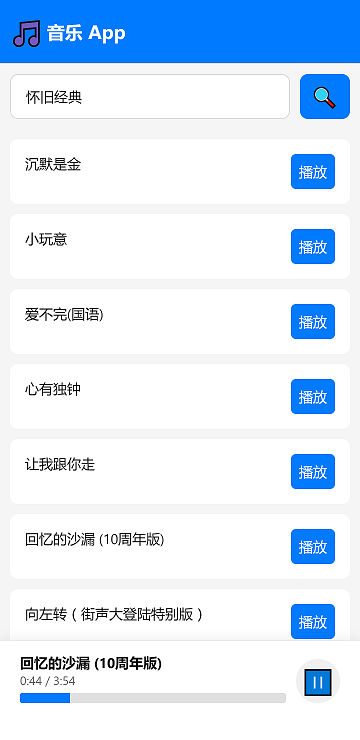
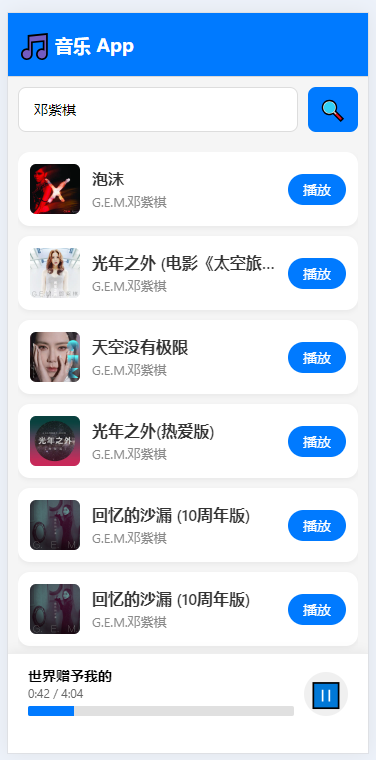
xx

diff --git a/app/music.tsx b/app/music.tsx
@@ -2,9 +2,14 @@ import React, { useEffect, useRef, useState } from 'react';
 import {
   ActivityIndicator,
   FlatList,
+  Image,
   LayoutChangeEvent,
   Pressable,
-  StyleSheet, Text, TextInput, TouchableOpacity, View
+  StyleSheet,
+  Text,
+  TextInput,
+  TouchableOpacity,
+  View,
 } from 'react-native';
 // 导入最新的 expo-audio
 import { useAudioPlayer, useAudioPlayerStatus } from 'expo-audio';
@@ -21,14 +26,11 @@ const MusicApp: React.FC = () => {
   const keyword = useRef<string>('王菲');
 
 
-  // 1. 初始化播放器实例
   const player = useAudioPlayer();
-  // 2. 监听播放器状态（包含时长、进度、是否播放中）
   const status = useAudioPlayerStatus(player);
 
   const handlePlay = async (song: Song) => {
     setCurrentSong(song);
-    // 替换新音源并播放
     player.replace(song.url);
     await player.play();
   };
@@ -111,10 +113,8 @@ const MusicApp: React.FC = () => {
           disabled={loading} // 加载中禁用点击
         >
           {loading ? (
-            // 这里可以用 ActivityIndicator（RN内置转圈组件）
             <ActivityIndicator color="#fff" size="small" />
           ) : (
-            // 这里放搜索图标，如果没有图标库可以用 emoji 代替 🔍
             <Text style={styles.searchButtonText}>🔍</Text>
           )}
         </TouchableOpacity>
@@ -122,15 +122,28 @@ const MusicApp: React.FC = () => {
 
       <FlatList
         data={songs ? songs.filter(s => s.title) : []}
-        keyExtractor={(item, index) => `song-${index}`}
+        keyExtractor={(_, index) => `song-${index}`}
         contentContainerStyle={{ paddingBottom: 100 }}
         renderItem={({ item }) => (
           <View style={styles.listItem}>
-            <Text>{item.title}</Text>
+            <Image
+              source={item.cover ? { uri: item.cover } : require('../assets/images/react-logo.png')}
+              style={styles.albumCover}
+            />
+
+            <View style={styles.textContainer}>
+              <Text style={styles.songTitle} numberOfLines={1}>
+                {item.title}
+              </Text>
+              <Text style={styles.singerName} numberOfLines={1}>
+                {item.singer || '未知歌手'}
+              </Text>
+            </View>
+
             <TouchableOpacity style={styles.playButton} onPress={() => handlePlay(item)}>
               <Text style={{ color: '#fff' }}>播放</Text>
             </TouchableOpacity>
-          </View>
+            </View>
         )}
       />
 
@@ -140,12 +153,10 @@ const MusicApp: React.FC = () => {
           <View style={{ flex: 1 }}>
             <Text style={{ fontWeight: 'bold' }}>{currentSong?.title}</Text>
 
-            {/* 使用预定义的字符串变量 */}
             <Text style={{ fontSize: 12, color: '#666' }}>
               {currentTimeStr} / {durationStr}
             </Text>
 
-            {/* 进度条交互区域 */}
             <Pressable
               // 如果时长还没获取到，就不允许点击跳转
               disabled={!status.duration || isNaN(status.duration)}
@@ -202,8 +213,48 @@ const styles = StyleSheet.create({
   searchButtonText: {
     fontSize: 20, // 放大图标显示
   },
-  listItem: { flexDirection: 'row', justifyContent: 'space-between', padding: 15, backgroundColor: '#fff', marginBottom: 10, borderRadius: 8 },
-  playButton: { backgroundColor: '#007AFF', padding: 8, borderRadius: 5 },
+
+  listItem: {
+    flexDirection: 'row', // 横向排列
+    alignItems: 'center', // 垂直居中
+    backgroundColor: '#fff',
+    padding: 12,
+    marginBottom: 10,
+    borderRadius: 12,
+    // 阴影
+    boxShadow: '0px 2px 5px rgba(0,0,0,0.05)',
+    elevation: 2,
+  },
+  albumCover: {
+    width: 50,
+    height: 50,
+    borderRadius: 6,
+    marginRight: 12,
+    backgroundColor: '#eee', // 图片加载前的占位色
+  },
+  textContainer: {
+    flex: 1, // 关键：占据中间所有空间
+    justifyContent: 'center',
+  },
+  songTitle: {
+    fontSize: 16,
+    fontWeight: '600',
+    color: '#333',
+    marginBottom: 4,
+  },
+  singerName: {
+    fontSize: 13,
+    color: '#888', // 比标题颜色浅
+  },
+  playButton: {
+    backgroundColor: '#007AFF',
+    paddingVertical: 6,
+    paddingHorizontal: 15,
+    borderRadius: 20, // 圆角矩形按钮
+    marginLeft: 10,
+  },
+
+
   bottomBar: {
     position: 'absolute',
     bottom: 0,

diff --git a/app/search.tsx b/app/search.tsx
@@ -6,16 +6,12 @@ class Search {
 
   private baseUrl: string = 'https://api.xcvts.cn/api/music/migu';
 
-  // 1. 定义一个私有的静态变量来保存实例
   private static instance: Search | null = null;
 
-  // 2. 私有化构造函数，防止外部通过 new Search() 创建新实例
   private constructor() {
-    // 这里可以初始化搜索相关的配置
-    console.log("Search 实例已初始化");
+    console.log("Search init.");
   }
 
-  // 3. 提供一个静态方法供外部获取唯一实例
   static getInstance(): Search {
     if (!Search.instance) {
       Search.instance = new Search();
@@ -42,13 +38,13 @@ class Search {
 
   public async getMiguSongDetail(name: string): Promise<Song|null> {
     interface Detail {
-      code: number,
-      title: string,
-      singer: string,
-      cover: string,
-      lrc_url: string,
-      link: string,
-      music_url: string,
+      code: number;
+      title: string;
+      singer: string;
+      cover: string;
+      lrc_url: string;
+      link: string;
+      music_url: string;
     };
 
     try {
@@ -60,9 +56,11 @@ class Search {
       }
 
       return {
-        id: '',
+        id: Math.random().toString(),
         title: detail.title,
         url: detail.music_url,
+        singer: detail.singer,
+        cover: detail.cover,
       } as Song;
     } catch (error) {
       console.log(`get song ${name} err`, error);

diff --git a/app/types.tsx b/app/types.tsx
@@ -2,6 +2,8 @@ export interface Song {
   id: string;
   title: string;
   url: string;
+  singer?: string;
+  cover?: string;
 };
 
 export default {};
